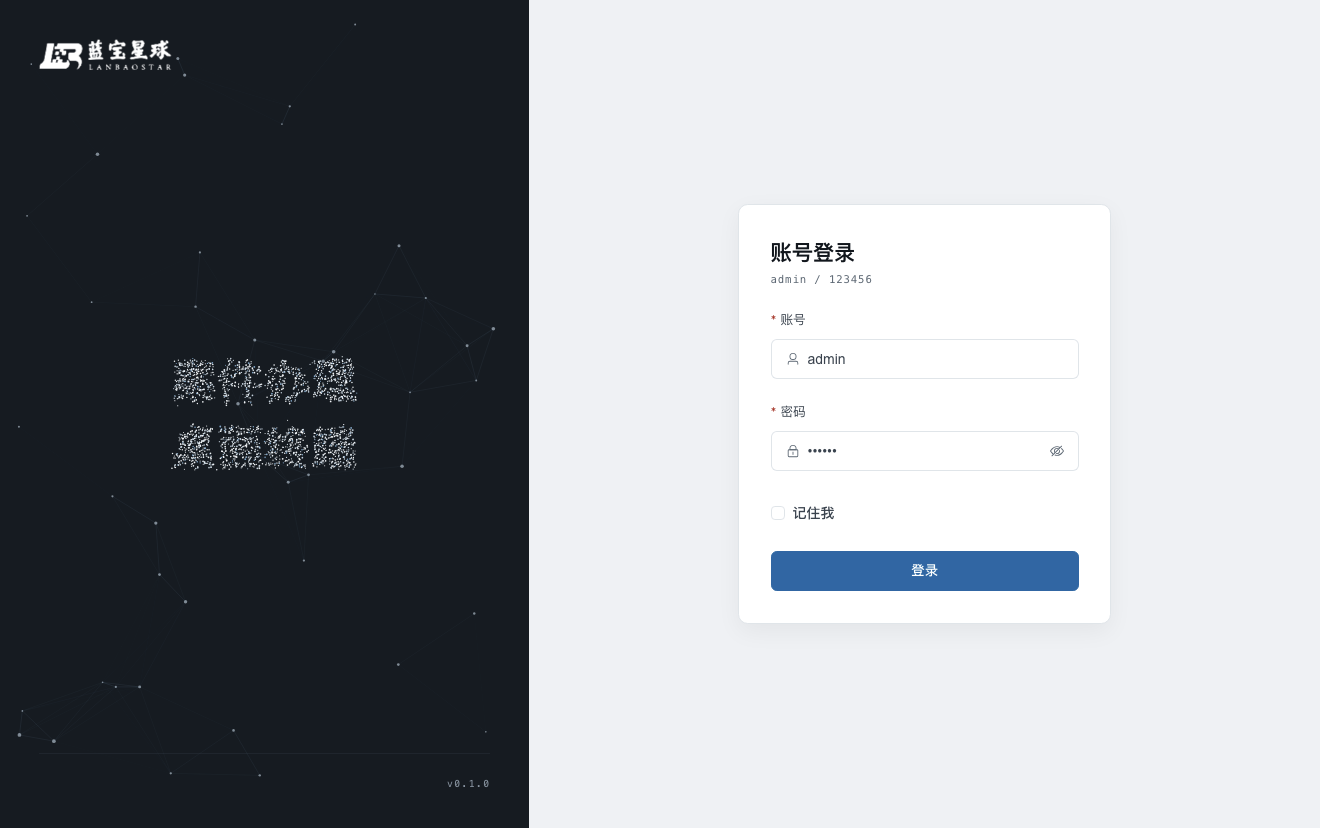
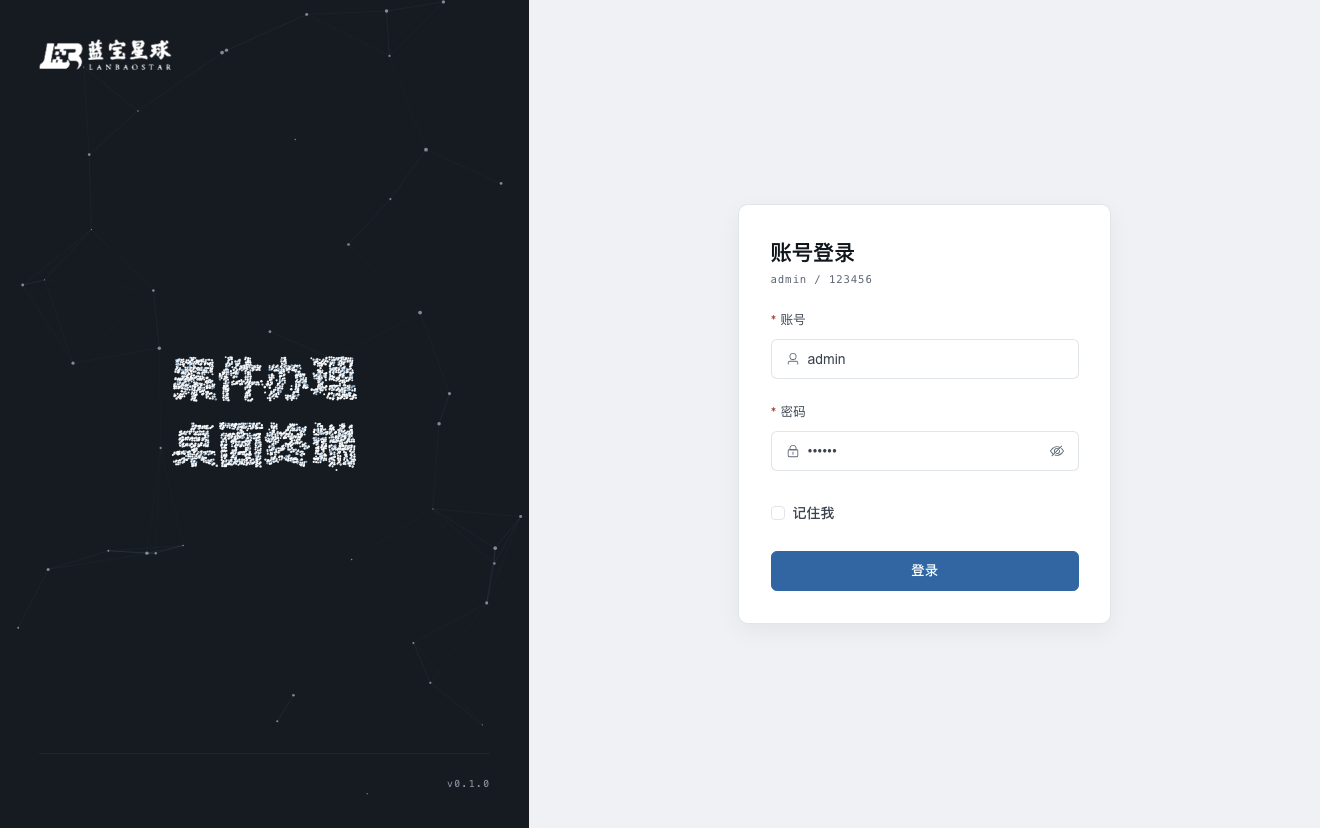
feat: 登录页粒子汇聚开场
粒子从封面四边飞入并汇聚成标题，落定后转入轻微漂浮；
顺带把采样步长与粒子半径调密，字形在静止状态下保持可读。

Changed region(s): [[0.1242, 0.4227, 0.2795, 0.5737]]

diff --git a/src/renderer/src/components/ParticleTitle.vue b/src/renderer/src/components/ParticleTitle.vue
@@ -13,13 +13,15 @@ import { onBeforeUnmount, onMounted, ref } from 'vue'
 interface Grain {
   hx: number
   hy: number
-  x: number
-  y: number
+  sx: number
+  sy: number
   amp: number
   speed: number
   phase: number
   r: number
   tone: string
+  delay: number
+  duration: number
 }
 
 const props = withDefaults(
@@ -39,26 +41,33 @@ let height = 0
 let dpr = 1
 let reduced = false
 let observer: ResizeObserver | undefined
+let introStart = 0
+let introDone = 0
 
-const TONES = ['rgba(246, 250, 253, 0.96)', 'rgba(214, 231, 243, 0.9)', 'rgba(126, 176, 212, 0.95)']
+const TONES = ['rgba(250, 253, 255, 0.99)', 'rgba(224, 238, 248, 0.94)', 'rgba(126, 176, 212, 0.95)']
+
+function easeInOutCubic(t: number): number {
+  return t < 0.5 ? 4 * t * t * t : 1 - Math.pow(-2 * t + 2, 3) / 2
+}
 
 function sample(): void {
   const canvas = canvasRef.value
   const host = textRef.value
   if (!canvas || !host) return
 
+  const box = canvas.getBoundingClientRect()
   const rect = host.getBoundingClientRect()
-  width = Math.max(1, Math.round(rect.width))
-  height = Math.max(1, Math.round(rect.height))
+  width = Math.max(1, Math.round(box.width))
+  height = Math.max(1, Math.round(box.height))
   dpr = Math.min(window.devicePixelRatio || 1, 2)
   canvas.width = Math.round(width * dpr)
   canvas.height = Math.round(height * dpr)
-  canvas.style.width = `${width}px`
-  canvas.style.height = `${height}px`
 
   const style = getComputedStyle(host)
   const font = `${style.fontWeight} ${style.fontSize} ${style.fontFamily}`
   const lineHeight = parseFloat(style.lineHeight) || parseFloat(style.fontSize) * 1.3
+  const originX = rect.left - box.left
+  const originY = rect.top - box.top
 
   const buffer = document.createElement('canvas')
   buffer.width = canvas.width
@@ -66,46 +75,64 @@ function sample(): void {
   const ctx = buffer.getContext('2d')
   if (!ctx) return
 
-  const scale = dpr
-  ctx.scale(scale, scale)
+  ctx.scale(dpr, dpr)
   ctx.font = font
   ctx.fillStyle = '#fff'
   ctx.textAlign = 'center'
   ctx.textBaseline = 'middle'
 
   props.lines.forEach((line, index) => {
-    const y = height / 2 + (index - (props.lines.length - 1) / 2) * lineHeight
-    ctx.fillText(line, width / 2, y)
+    const y = originY + rect.height / 2 + (index - (props.lines.length - 1) / 2) * lineHeight
+    ctx.fillText(line, originX + rect.width / 2, y)
   })
 
   const data = ctx.getImageData(0, 0, buffer.width, buffer.height).data
-  const step = Math.max(2, Math.round(2 * scale))
+  const step = Math.max(2, Math.round(1.5 * dpr))
   const next: Grain[] = []
+  const cx = width / 2
+  const cy = height / 2
+  const halfW = width / 2
+  const halfH = height / 2
+  const maxDistance = Math.hypot(halfW, halfH)
 
   for (let y = 0; y < buffer.height; y += step) {
     for (let x = 0; x < buffer.width; x += step) {
       const alpha = data[(y * buffer.width + x) * 4 + 3]
-      if (alpha < 120) continue
+      if (!(alpha >= 120)) continue
+
+      const hx = x / dpr + (Math.random() - 0.5) * 0.28
+      const hy = y / dpr + (Math.random() - 0.5) * 0.28
+      const angle = Math.atan2(hy - cy, hx - cx) + (Math.random() - 0.5) * 0.7
+      const cosA = Math.abs(Math.cos(angle)) || 1e-6
+      const sinA = Math.abs(Math.sin(angle)) || 1e-6
+      const tEdge = Math.min(halfW / cosA, halfH / sinA)
+      const startDistance = tEdge * (0.9 + Math.random() * 0.08)
+      const homeDistance = Math.hypot(hx - cx, hy - cy)
       const hue = Math.random()
+
       next.push({
-        hx: x / scale + (Math.random() - 0.5) * 0.9,
-        hy: y / scale + (Math.random() - 0.5) * 0.9,
-        x: x / scale,
-        y: y / scale,
-        amp: Math.random() < 0.08 ? 3 + Math.random() * 5 : 0.7 + Math.random() * 1.1,
+        hx,
+        hy,
+        sx: cx + Math.cos(angle) * startDistance,
+        sy: cy + Math.sin(angle) * startDistance,
+        amp: Math.random() < 0.06 ? 2.2 + Math.random() * 3.4 : 0.3 + Math.random() * 0.5,
         speed: 0.35 + Math.random() * 0.85,
         phase: Math.random() * Math.PI * 2,
-        r: 0.5 + Math.random() * 0.4,
-        tone: hue > 0.93 ? TONES[2] : hue > 0.6 ? TONES[1] : TONES[0]
+        r: 0.95 + Math.random() * 0.35,
+        tone: hue > 0.93 ? TONES[2] : hue > 0.6 ? TONES[1] : TONES[0],
+        delay: (1 - homeDistance / maxDistance) * 170 + Math.random() * 170,
+        duration: 1150 + Math.random() * 480
       })
     }
   }
 
   grains = next
-  if (reduced) drawFrame(0)
+  introStart = performance.now()
+  introDone = introStart + next.reduce((max, g) => Math.max(max, g.delay + g.duration), 0)
+  if (reduced) drawFrame(introDone + 2000)
 }
 
-function drawFrame(time: number): void {
+function drawFrame(now: number): void {
   const canvas = canvasRef.value
   const ctx = canvas?.getContext('2d')
   if (!canvas || !ctx) return
@@ -113,17 +140,30 @@ function drawFrame(time: number): void {
   ctx.setTransform(dpr, 0, 0, dpr, 0, 0)
   ctx.clearRect(0, 0, width, height)
 
-  const t = time / 1000
+  const settle = Math.min(1, Math.max(0, (now - introDone) / 900))
+  const t = now / 1000
+
   for (const grain of grains) {
-    const tx = grain.hx + Math.sin(t * grain.speed + grain.phase) * grain.amp
-    const ty = grain.hy + Math.cos(t * grain.speed * 0.8 + grain.phase) * grain.amp
-    grain.x += (tx - grain.x) * 0.12
-    grain.y += (ty - grain.y) * 0.12
+    const raw = (now - introStart - grain.delay) / grain.duration
+    const progress = raw < 0 ? 0 : raw > 1 ? 1 : raw
+    const eased = easeInOutCubic(progress)
+
+    const driftX = Math.sin(t * grain.speed + grain.phase) * grain.amp * settle
+    const driftY = Math.cos(t * grain.speed * 0.8 + grain.phase) * grain.amp * settle
+    const targetX = grain.hx + driftX
+    const targetY = grain.hy + driftY
+
+    const px = grain.sx + (targetX - grain.sx) * eased
+    const py = grain.sy + (targetY - grain.sy) * eased
+
+    ctx.globalAlpha = Math.min(1, progress * 5)
     ctx.fillStyle = grain.tone
     ctx.beginPath()
-    ctx.arc(grain.x, grain.y, grain.r, 0, Math.PI * 2)
+    ctx.arc(px, py, grain.r, 0, Math.PI * 2)
     ctx.fill()
   }
+
+  ctx.globalAlpha = 1
 }
 
 function loop(now: number): void {
@@ -134,11 +174,11 @@ function loop(now: number): void {
 onMounted(() => {
   reduced = window.matchMedia('(prefers-reduced-motion: reduce)').matches
   sample()
-  if (textRef.value) {
+  if (canvasRef.value) {
     observer = new ResizeObserver(() => {
       sample()
     })
-    observer.observe(textRef.value)
+    observer.observe(canvasRef.value)
   }
   if (!reduced) raf = requestAnimationFrame(loop)
 })
@@ -151,9 +191,11 @@ onBeforeUnmount(() => {
 
 <style scoped>
 .particle-title {
-  position: relative;
-  display: inline-block;
-  padding: 1.5rem 2.5rem;
+  position: absolute;
+  inset: 0;
+  display: grid;
+  place-items: center;
+  pointer-events: none;
 }
 
 .text {
@@ -167,6 +209,7 @@ onBeforeUnmount(() => {
   color: transparent;
   opacity: 0;
   user-select: none;
+  padding: 1.5rem 2.5rem;
 }
 
 .line {
@@ -175,7 +218,9 @@ onBeforeUnmount(() => {
 
 .canvas {
   position: absolute;
-  inset: 1.5rem 2.5rem;
+  inset: 0;
+  width: 100%;
+  height: 100%;
   pointer-events: none;
 }
 </style>

diff --git a/src/renderer/src/views/LoginView.vue b/src/renderer/src/views/LoginView.vue
@@ -2,13 +2,11 @@
   <div class="login">
     <aside class="cover">
       <ParticleField />
+      <ParticleTitle class="cover-title" :lines="['案件办理', '桌面终端']" />
+
       <header class="cover-head">
         <img class="logo" :src="logoLight" alt="蓝宝星球" />
       </header>
-
-      <div class="cover-copy">
-        <ParticleTitle :lines="['案件办理', '桌面终端']" />
-      </div>
 
       <footer class="cover-foot mono">
         <span>v{{ version }}</span>
@@ -133,7 +131,7 @@ async function submit(): Promise<void> {
   overflow: hidden;
 }
 
-.cover > :not(.particles) {
+.cover > :not(.particles):not(.cover-title) {
   position: relative;
   z-index: 1;
 }
@@ -159,9 +157,9 @@ async function submit(): Promise<void> {
   height: auto;
 }
 
-.cover-copy {
-  display: flex;
-  justify-content: center;
+.cover-title {
+  position: absolute;
+  inset: 0;
 }
 
 .cover-foot {

diff --git a/DESIGN.md b/DESIGN.md
@@ -90,12 +90,12 @@
 
 ## 动效
 
-三处，都有明确用途：
+四处，都有明确用途：
 
 1. 导航项与面板行在 160ms 内完成底色/颜色变化，行尾箭头 hover 右移 0.1875rem——回答「我在哪、能不能点」。
-2. 登录页标题「案件办理 / 桌面终端」本身就是粒子构成（`src/renderer/src/components/ParticleTitle.vue`）：把两行标题在离屏 canvas 上按真实字号（`clamp(2rem, 2.4vw + 1.2rem, 3rem)`）绘制、逐像素采样（2px 步长），在采样点上生成粒子，粒子绕各自原点做 0.7–1.8px 的正弦浮动（8% 的粒子给到 3–8px，负责「散」的观感），字因此会「呼吸」但始终可读。真实文字保留在 DOM 里（`opacity: 0`），读屏与自动化仍能取到标题；采样与容器尺寸绑定，`ResizeObserver` 触发重采样，窗口缩放不会糊。标题在封面内水平、垂直居中，与右侧表单卡形成对称。
+2. 登录页开场：粒子从封面四边汇聚成标题。`src/renderer/src/components/ParticleTitle.vue` 把两行标题在离屏 canvas 上按真实字号（`clamp(2rem, 2.4vw + 1.2rem, 3rem)`）绘制、逐像素采样（2px 步长），每个采样点生成一颗粒子，起点取「从封面中心沿该点方向射出与封面边界的交点，落在边界内侧 2%–10%」，因此粒子一定从面板四边飞入而不是从画面外凭空出现。单颗粒子 `delay = (1 - 距中心/最大半径) * 170ms + 随机 170ms`、`duration = 1150–1630ms`、`easeInOutCubic`（先慢、再快、末尾收住，肉眼能看清「从边上飞进来」），靠近边缘的先出发，1.0s 前后连成字形、2.0s 内完全落定；落定后浮 amplitudes 生效（0.7–1.8px 正弦漂移，8% 的粒子给到 3–8px 负责「散」的观感），字会「呼吸」但始终可读。真实文字保留在 DOM 里（`opacity: 0`、`pointer-events: none`），读屏与自动化仍能取到标题；`ResizeObserver` 触发重采样，窗口缩放不会糊。
 3. 封面背景的粒子星图（`src/renderer/src/components/ParticleField.vue`）：44 个缓慢漂移的点 + 140px 内的连边，用 canvas 绘制，点 `rgba(206,226,241,.62)`、线 `rgba(122,176,214)` 到 0.2 不透明度；密度与亮度都压在同层文字的对比之下，只做「港口夜航」的气氛，不与表单抢注意力。窗口尺寸变化时按 `ResizeObserver` 重算并乘 `devicePixelRatio`，且封面上所有内容都在粒子之上（`z-index: 1`）。
-4. 运行时 `prefers-reduced-motion: reduce` 时，前两处全部降为 0ms，两处粒子都只画静止的一帧。
+4. 运行时 `prefers-reduced-motion: reduce` 时，前两处全部降为 0ms，两处粒子都只画静止的一帧（标题直接停在汇聚完成的位置）。
 
 ## 无障碍
 
